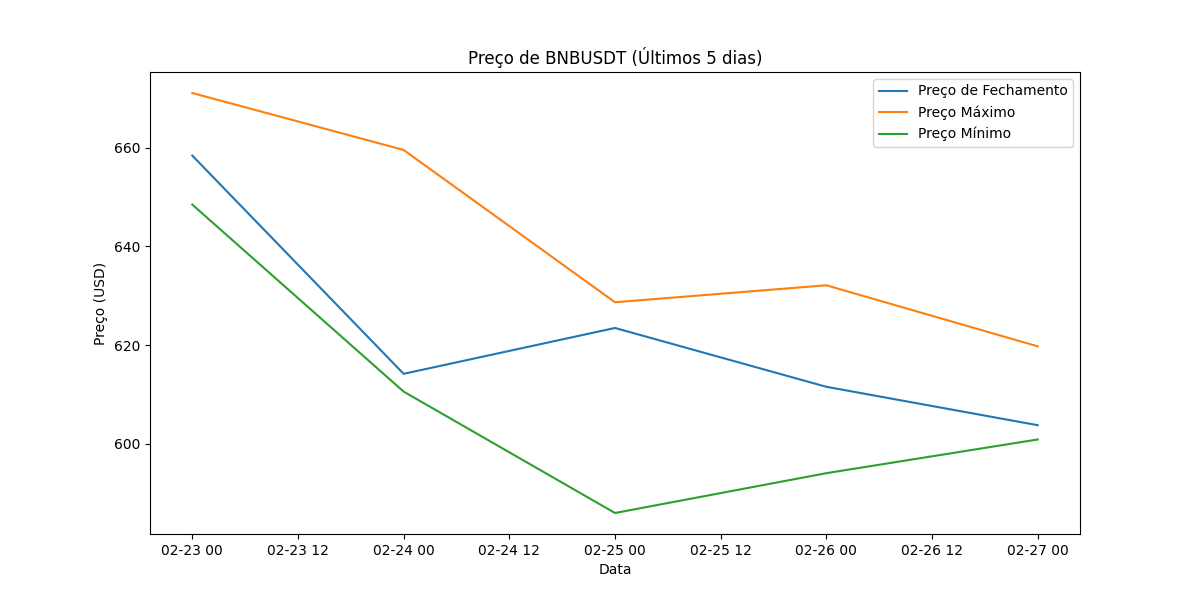
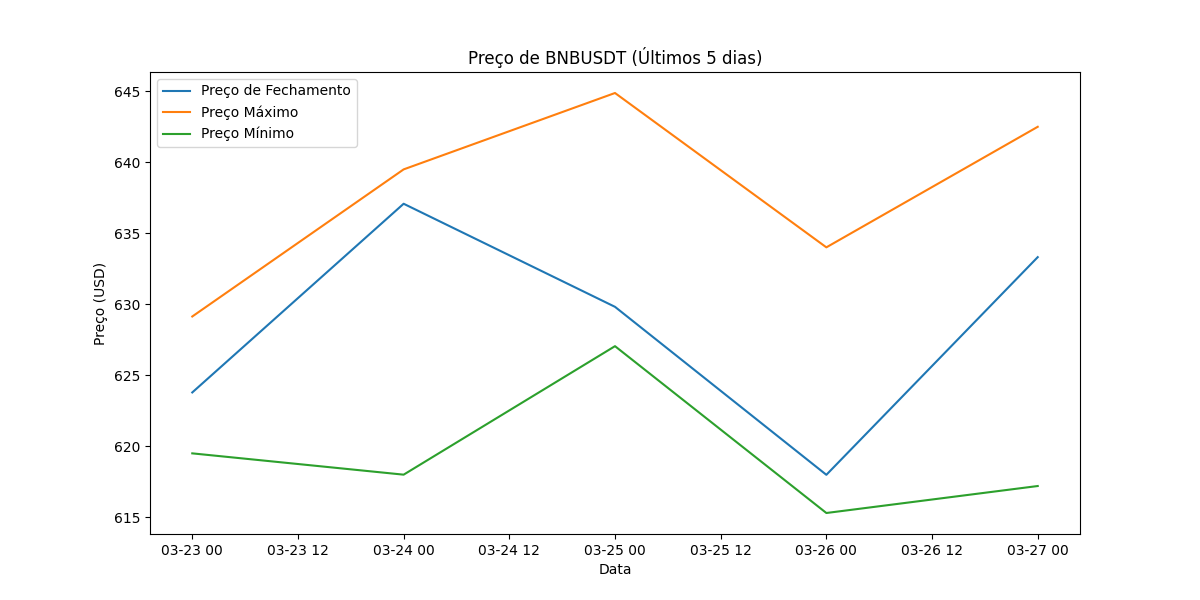
Refatora key.py para usar classes e adiciona binance_analyzer.py

diff --git a/binance_analyzer.py b/binance_analyzer.py
@@ -1,0 +1,151 @@
+#!/usr/bin/python3
+
+import cx_Oracle
+import requests
+import hmac
+import hashlib
+import time
+import json
+import pandas as pd
+from datetime import datetime, timedelta
+from binance.client import Client
+import matplotlib.pyplot as plt
+import key
+
+class DatabaseManager:
+    def __init__(self):
+        KeyManager = key.KeyManager()
+        self.user = KeyManager.return_config("user")
+        self.senha = KeyManager.return_secret("adbinvest")
+        self.db = KeyManager.return_config("db")
+        self.conn = None
+        self.cursor = None
+
+    def connect(self):
+        self.conn = cx_Oracle.connect(f"{self.user}/{self.senha}@{self.db}")
+        self.cursor = self.conn.cursor()
+        self.cursor.execute("alter session set nls_date_format='mm/dd/yyyy hh24:mi:ss'")
+
+    def close(self):
+        if self.cursor:
+            self.cursor.close()
+        if self.conn:
+            self.conn.close()
+
+    def get_current_time(self):
+        self.cursor.execute("select sysdate from dual")
+        return self.cursor.fetchall()[0][0]
+
+class BinanceAPI:
+    def __init__(self):
+        KeyManager = key.KeyManager()
+        self.api_key = KeyManager.return_config("APIKey")
+        self.secret_key = KeyManager.return_config("SecretKey")
+        self.base_url = KeyManager.return_config("base_url")
+        self.client = Client(api_key=self.api_key, api_secret=self.secret_key)
+
+    def _generate_signature(self, query_string):
+        return hmac.new(self.secret_key.encode(), query_string.encode(), hashlib.sha256).hexdigest()
+
+    def get_account_info(self):
+        timestamp = int(time.time() * 1000)
+        query_string = f'timestamp={timestamp}'
+        signature = self._generate_signature(query_string)
+        
+        headers = {'X-MBX-APIKEY': self.api_key}
+        url = f'{self.base_url}/api/v3/account?{query_string}&signature={signature}'
+        
+        response = requests.get(url, headers=headers)
+        return response.json()
+
+    def get_trades(self, symbol='BNBUSDT'):
+        timestamp = int(time.time() * 1000)
+        query_string = f'timestamp={timestamp}&symbol={symbol}'
+        signature = self._generate_signature(query_string)
+        
+        headers = {'X-MBX-APIKEY': self.api_key}
+        url = f'{self.base_url}/api/v3/myTrades?{query_string}&signature={signature}'
+        
+        response = requests.get(url, headers=headers)
+        return response.json()
+
+    def get_avg_price(self, symbol='BNBUSDT'):
+        timestamp = int(time.time() * 1000)
+        query_string = f'timestamp={timestamp}&symbol={symbol}'
+        signature = self._generate_signature(query_string)
+        
+        headers = {'X-MBX-APIKEY': self.api_key}
+        url = f'{self.base_url}/api/v3/avgPrice?{query_string}&signature={signature}'
+        
+        response = requests.get(url, headers=headers)
+        return response.json()
+
+class BinanceAnalyzer:
+    def __init__(self):
+        self.api = BinanceAPI()
+        self.db = DatabaseManager()
+
+    def analyze_historical_data(self, symbol="BNBUSDT", days=5):
+        end_date = datetime.now()
+        start_date = end_date - timedelta(days=days)
+
+        klines = self.api.client.get_historical_klines(
+            symbol=symbol,
+            interval=Client.KLINE_INTERVAL_1DAY,
+            start_str=start_date.strftime("%d %b %Y %H:%M:%S"),
+            end_str=end_date.strftime("%d %b %Y %H:%M:%S")
+        )
+
+        df = pd.DataFrame(klines, columns=[
+            "timestamp", "open", "high", "low", "close", "volume",
+            "close_time", "quote_asset_volume", "trades",
+            "taker_buy_base", "taker_buy_quote", "ignore"
+        ])
+
+        df["timestamp"] = pd.to_datetime(df["timestamp"], unit="ms")
+        df["close"] = pd.to_numeric(df["close"])
+        df["high"] = pd.to_numeric(df["high"])
+        df["low"] = pd.to_numeric(df["low"])
+
+        return df
+
+    def generate_price_graph(self, df, symbol="BNBUSDT", days=5):
+        plt.figure(figsize=(12, 6))
+        plt.plot(df["timestamp"], df["close"], label="Preço de Fechamento")
+        plt.plot(df["timestamp"], df["high"], label="Preço Máximo")
+        plt.plot(df["timestamp"], df["low"], label="Preço Mínimo")
+        plt.title(f"Preço de {symbol} (Últimos {days} dias)")
+        plt.xlabel("Data")
+        plt.ylabel("Preço (USD)")
+        plt.legend()
+        plt.savefig("grafico_preco.png")
+        print("Gráfico salvo como 'grafico_preco.png'")
+
+    def print_account_balance(self):
+        account_info = self.api.get_account_info()
+        for balance in account_info['balances']:
+            if float(balance['free']) != 0 or float(balance['locked']) != 0:
+                print(f"{balance['asset']}: {balance['free']} (free), {balance['locked']} (locked)")
+                print(balance)
+                print("##########")
+
+def main():
+    analyzer = BinanceAnalyzer()
+    DBConn = DatabaseManager()
+    DBConn.connect()
+    DBConn.close()
+    
+    # Exemplo de uso
+    print("=== Informações da Conta ===")
+    analyzer.print_account_balance()
+    
+    print("\n=== Análise Histórica ===")
+    df = analyzer.analyze_historical_data(days=5)
+    media = df["close"].mean()
+    print(f"Média de preço (últimos 5 dias): ${media:.2f}")
+    
+    print("\n=== Gerando Gráfico ===")
+    analyzer.generate_price_graph(df)
+
+if __name__ == "__main__":
+    main() 

diff --git a/key.py b/key.py
@@ -1,60 +1,76 @@
+#!/usr/bin/python3
+
 import oci
 import base64
 from configparser import ConfigParser
 
-def return_config_int(key):
+class ConfigManager:
+    def __init__(self):
+        self.config = ConfigParser()
+        self.config.read(".config")
+        self.env = self._get_env()
 
-    #Read config file
-    config_object = ConfigParser()
-    config_object.read(".config")
+    def _get_env(self):
+        """Retorna o ambiente atual (dev, prod, etc)"""
+        return self.config["DEFAULT"]["env"]
 
-    #Get the config
-    appinfo = config_object["DEFAULT"]
+    def get_config(self, key):
+        """Retorna uma configuração do arquivo .config"""
+        return self.config[self.env][key]
 
-    return(appinfo[key])
+    def get_config_int(self, key):
+        """Retorna uma configuração inteira do arquivo .config"""
+        return int(self.config["DEFAULT"][key])
 
-# Retrieve secret
-def read_secret_value(secret_client, secret_id):
-    response = secret_client.get_secret_bundle(secret_id)
-    base64_Secret_content = response.data.secret_bundle_content.content
-    base64_secret_bytes = base64_Secret_content.encode('ascii')
-    base64_message_bytes = base64.b64decode(base64_secret_bytes)
-    secret_content = base64_message_bytes.decode('ascii')
-    return secret_content
+class SecretManager:
+    def __init__(self):
+        self.config_manager = ConfigManager()
+        self.secret_client = self._initialize_secret_client()
+
+    def _initialize_secret_client(self):
+        """Inicializa o cliente de segredos da OCI"""
+        signer = oci.auth.signers.InstancePrincipalsSecurityTokenSigner()
+        return oci.secrets.SecretsClient(config={}, signer=signer)
+
+    def _read_secret_value(self, secret_id):
+        """Lê o valor de um segredo da OCI"""
+        response = self.secret_client.get_secret_bundle(secret_id)
+        base64_Secret_content = response.data.secret_bundle_content.content
+        base64_secret_bytes = base64_Secret_content.encode('ascii')
+        base64_message_bytes = base64.b64decode(base64_secret_bytes)
+        return base64_message_bytes.decode('ascii')
+
+    def get_secret(self, secret):
+        """Retorna um segredo da OCI"""
+        secret_id = self.config_manager.get_config(secret)
+        return self._read_secret_value(secret_id)
+
+class KeyManager:
+    def __init__(self):
+        self.config_manager = ConfigManager()
+        self.secret_manager = SecretManager()
+
+    def return_config(self, key):
+        """Interface para retornar configurações"""
+        return self.config_manager.get_config(key)
+
+    def return_secret(self, secret):
+        """Interface para retornar segredos"""
+        return self.secret_manager.get_secret(secret)
+
+    def return_config_int(self, key):
+        """Interface para retornar configurações inteiras"""
+        return self.config_manager.get_config_int(key)
+
+# Instância global para manter compatibilidade com o código existente
+key_manager = KeyManager()
+
+# Funções de interface para manter compatibilidade com o código existente
+def return_config(key):
+    return key_manager.return_config(key)
 
 def return_secret(secret):
+    return key_manager.return_secret(secret)
 
-    #Read config file
-    config_object = ConfigParser()
-    config_object.read(".config")
-
-    #Get the secret
-    appinfo = config_object[return_config_int("env")]
-
-    # Replace secret_id value below with the ocid of your secret
-    secret_id = appinfo[secret]
-
-    # By default this will hit the auth service in the region the instance is running.
-    signer = oci.auth.signers.InstancePrincipalsSecurityTokenSigner()
-
-    # In the base case, configuration does not need to be provided as the region and tenancy are obtained from the InstancePrincipalsSecurityTokenSigner
-    #identity_client = oci.identity.IdentityClient(config={}, signer=signer)
-
-    # Get instance principal context
-    secret_client = oci.secrets.SecretsClient(config={}, signer=signer)
-
-    # Get secret contents
-    secret_contents = read_secret_value(secret_client, secret_id)
-
-    return (secret_contents)
-
-def return_config(key):
-
-    #Read config file
-    config_object = ConfigParser()
-    config_object.read(".config")
-
-    #Get the config
-    appinfo = config_object[return_config_int("env")]
-
-    return(appinfo[key])
+def return_config_int(key):
+    return key_manager.return_config_int(key)
